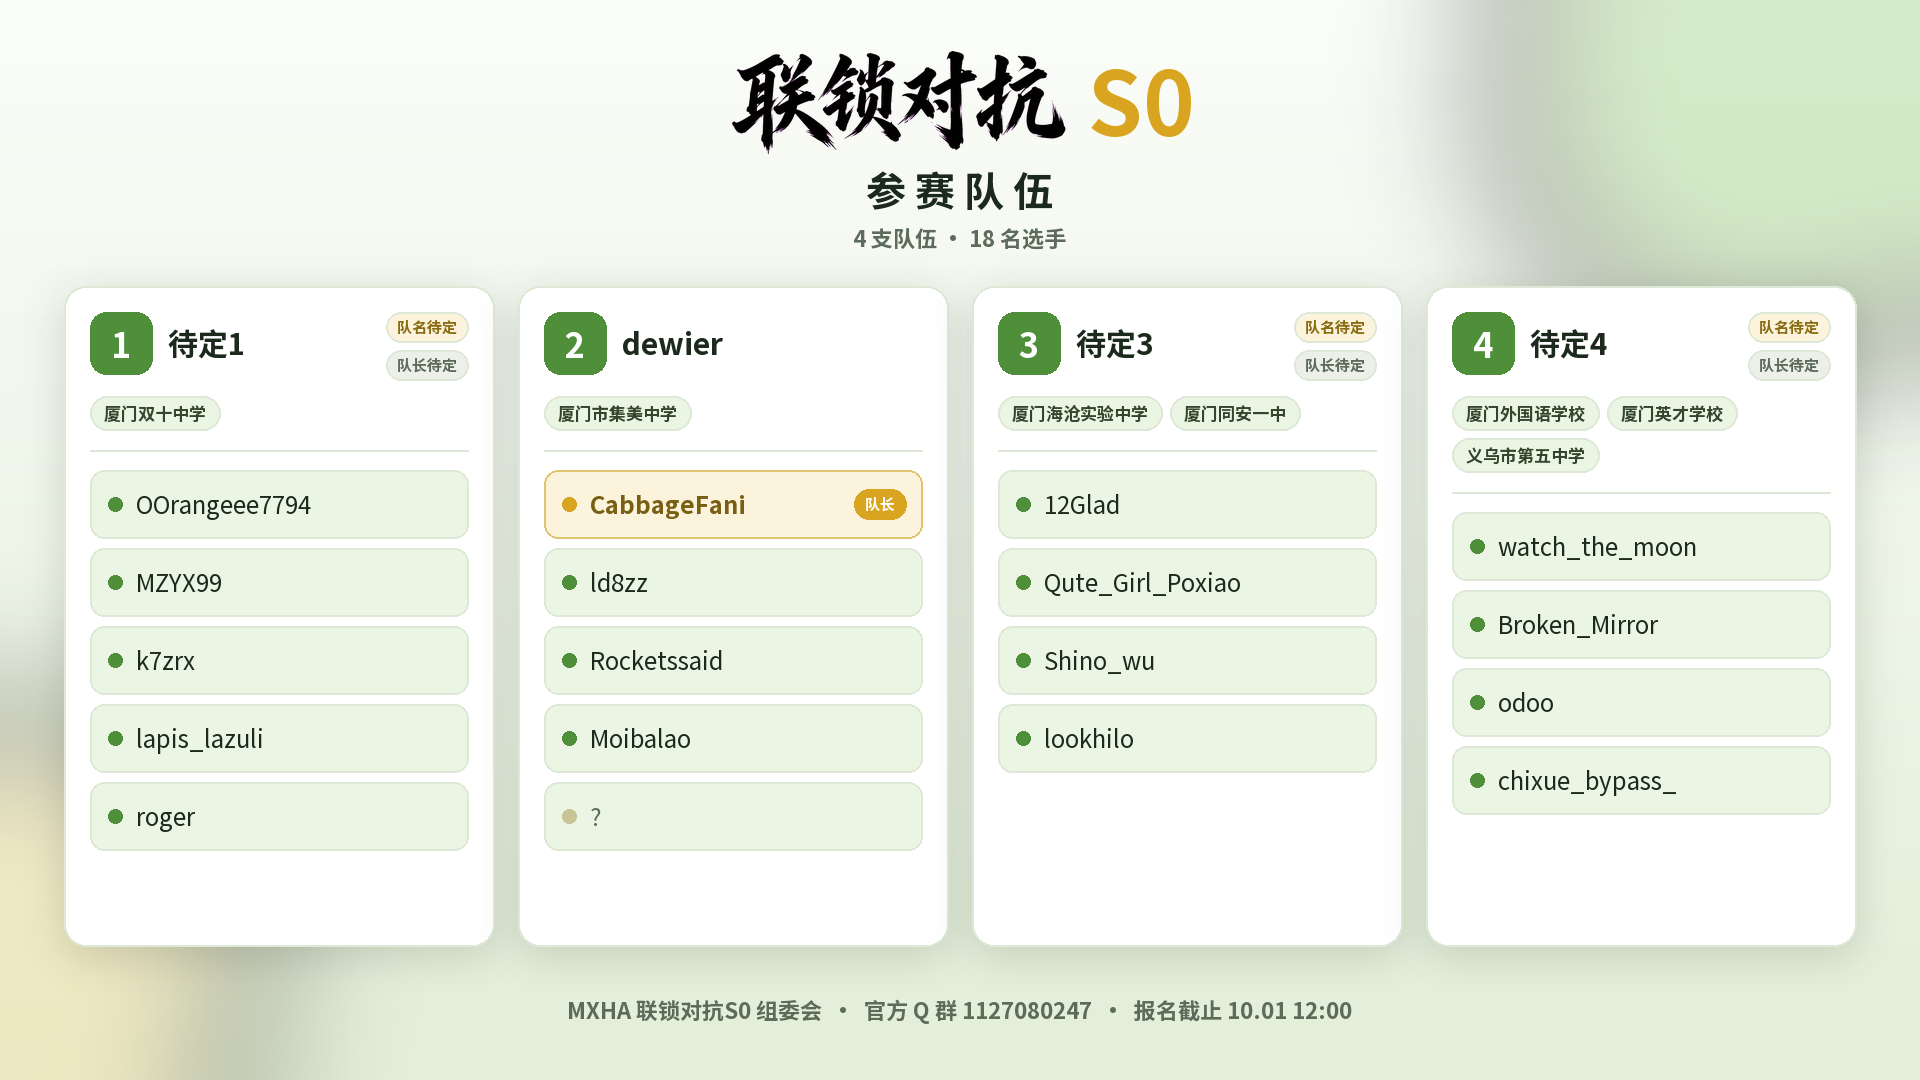
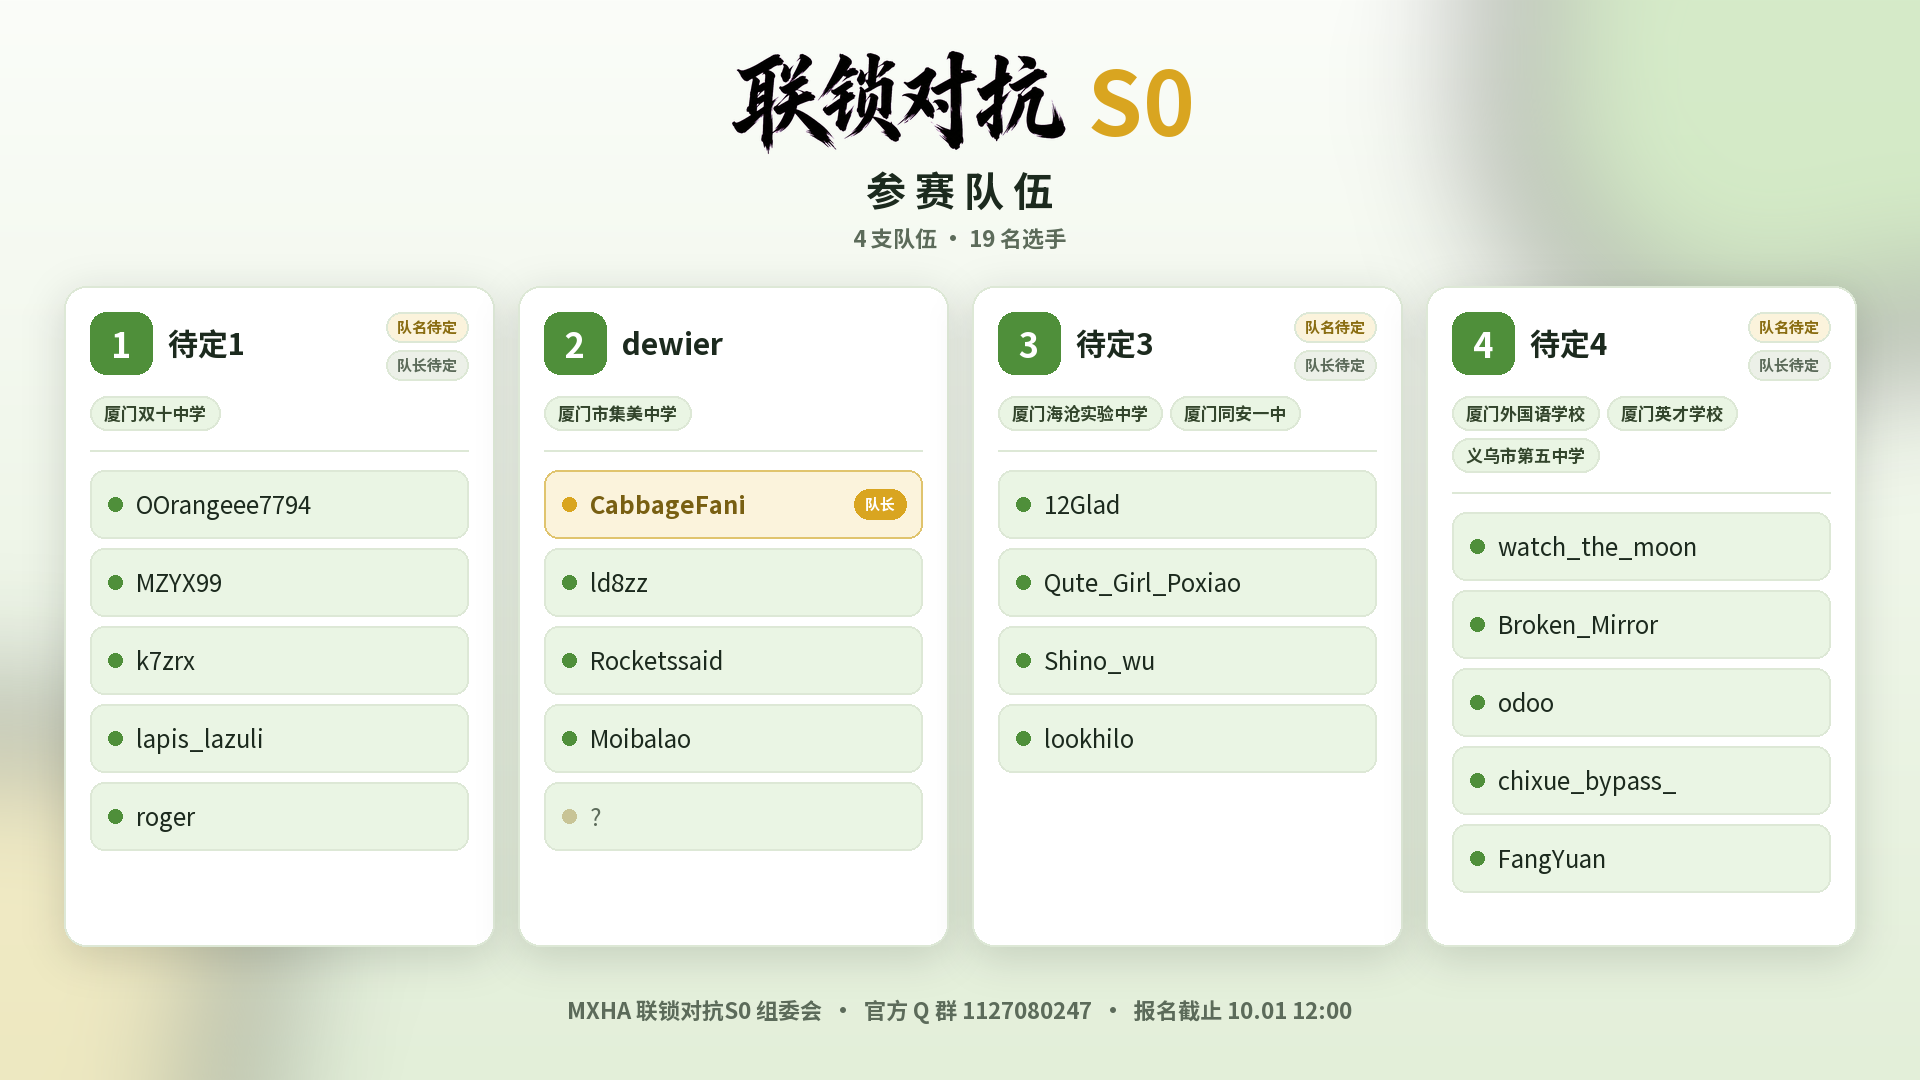
更新三校社徽为PNG版本并重新生成海报

Changed region(s): [[0.75, 0.7639, 0.9688, 0.825]]

diff --git a/index.html b/index.html
@@ -6,7 +6,7 @@
 <meta name="description" content="联锁对抗S0 · 厦门多校联合 Minecraft 竞技赛｜四大项目 · 积分赛制｜2026.10.03–10.04">
 <title>联锁对抗S0 · 厦门多校联合 Minecraft 竞技赛</title>
 <link rel="icon" href="assets/海报-圆形版.png">
-<link rel="stylesheet" href="styles.css?v=14">
+<link rel="stylesheet" href="styles.css?v=16">
 </head>
 <body>
 
@@ -121,7 +121,7 @@
       <a class="tmini" href="teams.html"><span class="tmini-head"><span class="tmini-num">1</span><span class="tmini-name">待定1</span></span><span class="tmini-meta">5 人 · 厦门双十中学</span></a>
       <a class="tmini" href="teams.html"><span class="tmini-head"><span class="tmini-num">2</span><span class="tmini-name">dewier</span></span><span class="tmini-meta">5 人 · 厦门市集美中学</span></a>
       <a class="tmini" href="teams.html"><span class="tmini-head"><span class="tmini-num">3</span><span class="tmini-name">待定3</span></span><span class="tmini-meta">4 人 · 海沧实验 / 同安一中</span></a>
-      <a class="tmini" href="teams.html"><span class="tmini-head"><span class="tmini-num">4</span><span class="tmini-name">待定4</span></span><span class="tmini-meta">4 人 · 外国语 / 英才 / 义乌五中</span></a>
+      <a class="tmini" href="teams.html"><span class="tmini-head"><span class="tmini-num">4</span><span class="tmini-name">待定4</span></span><span class="tmini-meta">5 人 · 外国语 / 英才 / 义乌五中</span></a>
     </div>
   </noscript>
   <div class="hero-actions" style="margin-top:18px">
@@ -151,11 +151,11 @@
     <div><h2>参赛社团</h2><p>多所学校 MC 社团联合举办</p></div>
   </div>
   <div class="clubs">
-    <div class="club"><img src="assets/厦门第一中学红石社-社徽.jpg" alt="厦门第一中学红石社"><span>厦门第一中学红石社</span></div>
+    <div class="club"><img src="assets/厦门第一中学红石社-社徽.png" alt="厦门第一中学红石社"><span>厦门第一中学红石社</span></div>
     <div class="club"><img src="assets/厦门双十中学云隅沙盒社-社徽.png" alt="厦门双十中学云隅沙盒社"><span>厦门双十中学云隅沙盒社</span></div>
     <div class="club"><img src="assets/厦门外国语学校方块创艺社-社徽.png" alt="厦门外国语学校方块创艺社"><span>厦门外国语学校方块创艺社</span></div>
-    <div class="club"><img src="assets/厦门英才学校mc社-社徽.jpg" alt="厦门英才学校 MC 社"><span>厦门英才学校 MC 社</span></div>
-    <div class="club"><img src="assets/厦门市集美中学像素艺术社-社徽.jpg" alt="厦门市集美中学像素艺术社"><span>厦门市集美中学像素艺术社</span></div>
+    <div class="club"><img src="assets/厦门英才学校mc社-社徽.png" alt="厦门英才学校 MC 社"><span>厦门英才学校 MC 社</span></div>
+    <div class="club"><img src="assets/厦门市集美中学像素艺术社-社徽.png" alt="厦门市集美中学像素艺术社"><span>厦门市集美中学像素艺术社</span></div>
   </div>
 </section>
 
@@ -207,8 +207,8 @@
   </div>
 </footer>
 
-<script src="app.js?v=14"></script>
-<script src="data/teams.js?v=14"></script>
+<script src="app.js?v=16"></script>
+<script src="data/teams.js?v=16"></script>
 <script>
 (function () {
   'use strict';

diff --git a/teams.html b/teams.html
@@ -6,7 +6,7 @@
 <meta name="description" content="联锁对抗S0 · 参赛队伍总览">
 <title>参赛队伍 · 联锁对抗S0</title>
 <link rel="icon" href="assets/海报-圆形版.png">
-<link rel="stylesheet" href="styles.css?v=14">
+<link rel="stylesheet" href="styles.css?v=16">
 </head>
 <body>
 
@@ -52,7 +52,7 @@
           <tr><td>1</td><td>待定1</td><td>厦门双十中学</td><td>OOrangeee7794、MZYX99、k7zrx、lapis_lazuli、roger（队长待定）</td></tr>
           <tr><td>2</td><td>dewier</td><td>厦门市集美中学</td><td>CabbageFani（队长）、ld8zz、Rocketssaid、Moibalao、?</td></tr>
           <tr><td>3</td><td>待定3</td><td>厦门海沧实验中学 / 厦门同安一中</td><td>12Glad、Qute_Girl_Poxiao、Shino_wu、lookhilo（队长待定）</td></tr>
-          <tr><td>4</td><td>待定4</td><td>厦门外国语学校 / 厦门英才学校 / 义乌市第五中学</td><td>watch_the_moon、Broken_Mirror、odoo、chixue_bypass_（队长待定）</td></tr>
+          <tr><td>4</td><td>待定4</td><td>厦门外国语学校 / 厦门英才学校 / 义乌市第五中学</td><td>watch_the_moon、Broken_Mirror、odoo、chixue_bypass_、FangYuan（队长待定）</td></tr>
         </tbody>
       </table>
     </div>
@@ -77,8 +77,8 @@
   </div>
 </footer>
 
-<script src="app.js?v=14"></script>
-<script src="data/teams.js?v=14"></script>
+<script src="app.js?v=16"></script>
+<script src="data/teams.js?v=16"></script>
 <script>
 (function () {
   'use strict';

diff --git a/poster.html b/poster.html
@@ -119,11 +119,11 @@
 
   <div class="foot z">
     <div class="clubs">
-      <img src="assets/厦门第一中学红石社-社徽.jpg" alt="">
+      <img src="assets/厦门第一中学红石社-社徽.png" alt="">
       <img src="assets/厦门双十中学云隅沙盒社-社徽.png" alt="">
       <img src="assets/厦门外国语学校方块创艺社-社徽.png" alt="">
-      <img src="assets/厦门英才学校mc社-社徽.jpg" alt="">
-      <img src="assets/厦门市集美中学像素艺术社-社徽.jpg" alt="">
+      <img src="assets/厦门英才学校mc社-社徽.png" alt="">
+      <img src="assets/厦门市集美中学像素艺术社-社徽.png" alt="">
     </div>
     <div class="meta">
       <b>MXHA 联锁对抗S0 组委会</b>

diff --git a/projects/frostbite.html b/projects/frostbite.html
@@ -6,7 +6,7 @@
 <meta name="description" content="联锁对抗S0 · 霜冻狂潮 游戏机制与比赛配置">
 <title>霜冻狂潮 · 联锁对抗S0</title>
 <link rel="icon" href="../assets/海报-圆形版.png">
-<link rel="stylesheet" href="../styles.css?v=14">
+<link rel="stylesheet" href="../styles.css?v=16">
 </head>
 <body class="detail-page bg-frostbite">
 <a class="skip" href="#main">跳到内容</a>
@@ -65,6 +65,6 @@
   </div>
 </footer>
 
-<script src="../app.js?v=14"></script>
+<script src="../app.js?v=16"></script>
 </body>
 </html>

diff --git a/projects/bedwars.html b/projects/bedwars.html
@@ -6,7 +6,7 @@
 <meta name="description" content="联锁对抗S0 · 起床战争 游戏机制与比赛配置">
 <title>起床战争 · 联锁对抗S0</title>
 <link rel="icon" href="../assets/海报-圆形版.png">
-<link rel="stylesheet" href="../styles.css?v=14">
+<link rel="stylesheet" href="../styles.css?v=16">
 </head>
 <body class="detail-page bg-bedwars">
 <a class="skip" href="#main">跳到内容</a>
@@ -63,6 +63,6 @@
   </div>
 </footer>
 
-<script src="../app.js?v=14"></script>
+<script src="../app.js?v=16"></script>
 </body>
 </html>

diff --git a/schedule.html b/schedule.html
@@ -6,7 +6,7 @@
 <meta name="description" content="联锁对抗S0 · 赛程安排">
 <title>赛程安排 · 联锁对抗S0</title>
 <link rel="icon" href="assets/海报-圆形版.png">
-<link rel="stylesheet" href="styles.css?v=14">
+<link rel="stylesheet" href="styles.css?v=16">
 </head>
 <body>
 
@@ -80,8 +80,8 @@
   </div>
 </footer>
 
-<script src="app.js?v=14"></script>
-<script src="data/schedule.js?v=14"></script>
+<script src="app.js?v=16"></script>
+<script src="data/schedule.js?v=16"></script>
 <script>
 (function () {
   'use strict';

diff --git a/projects/desert.html b/projects/desert.html
@@ -6,7 +6,7 @@
 <meta name="description" content="联锁对抗S0 · 荒芜沙漠 游戏机制与比赛配置">
 <title>荒芜沙漠 · 联锁对抗S0</title>
 <link rel="icon" href="../assets/海报-圆形版.png">
-<link rel="stylesheet" href="../styles.css?v=14">
+<link rel="stylesheet" href="../styles.css?v=16">
 </head>
 <body class="detail-page bg-desert">
 <a class="skip" href="#main">跳到内容</a>
@@ -66,6 +66,6 @@
   </div>
 </footer>
 
-<script src="../app.js?v=14"></script>
+<script src="../app.js?v=16"></script>
 </body>
 </html>

diff --git a/projects/siege.html b/projects/siege.html
@@ -6,7 +6,7 @@
 <meta name="description" content="联锁对抗S0 · 空岛围攻 游戏机制与比赛配置">
 <title>空岛围攻 · 联锁对抗S0</title>
 <link rel="icon" href="../assets/海报-圆形版.png">
-<link rel="stylesheet" href="../styles.css?v=14">
+<link rel="stylesheet" href="../styles.css?v=16">
 </head>
 <body class="detail-page bg-siege">
 <a class="skip" href="#main">跳到内容</a>
@@ -66,6 +66,6 @@
   </div>
 </footer>
 
-<script src="../app.js?v=14"></script>
+<script src="../app.js?v=16"></script>
 </body>
 </html>

diff --git a/rules.html b/rules.html
@@ -6,7 +6,7 @@
 <meta name="description" content="联锁对抗S0 · 赛制与积分规则">
 <title>赛制与积分 · 联锁对抗S0</title>
 <link rel="icon" href="assets/海报-圆形版.png">
-<link rel="stylesheet" href="styles.css?v=14">
+<link rel="stylesheet" href="styles.css?v=16">
 </head>
 <body>
 
@@ -101,6 +101,6 @@
   </div>
 </footer>
 
-<script src="app.js?v=14"></script>
+<script src="app.js?v=16"></script>
 </body>
 </html>

diff --git a/projects.html b/projects.html
@@ -6,7 +6,7 @@
 <meta name="description" content="联锁对抗S0 · 四大比赛项目">
 <title>比赛项目 · 联锁对抗S0</title>
 <link rel="icon" href="assets/海报-圆形版.png">
-<link rel="stylesheet" href="styles.css?v=14">
+<link rel="stylesheet" href="styles.css?v=16">
 </head>
 <body>
 
@@ -108,6 +108,6 @@
   </div>
 </footer>
 
-<script src="app.js?v=14"></script>
+<script src="app.js?v=16"></script>
 </body>
 </html>

diff --git a/data/teams.js b/data/teams.js
@@ -52,7 +52,8 @@ window.LSF_TEAMS = {
         { "mcid": "watch_the_moon" },
         { "mcid": "Broken_Mirror" },
         { "mcid": "odoo" },
-        { "mcid": "chixue_bypass_" }
+        { "mcid": "chixue_bypass_" },
+        { "mcid": "FangYuan" }
       ]
     }
   ]
